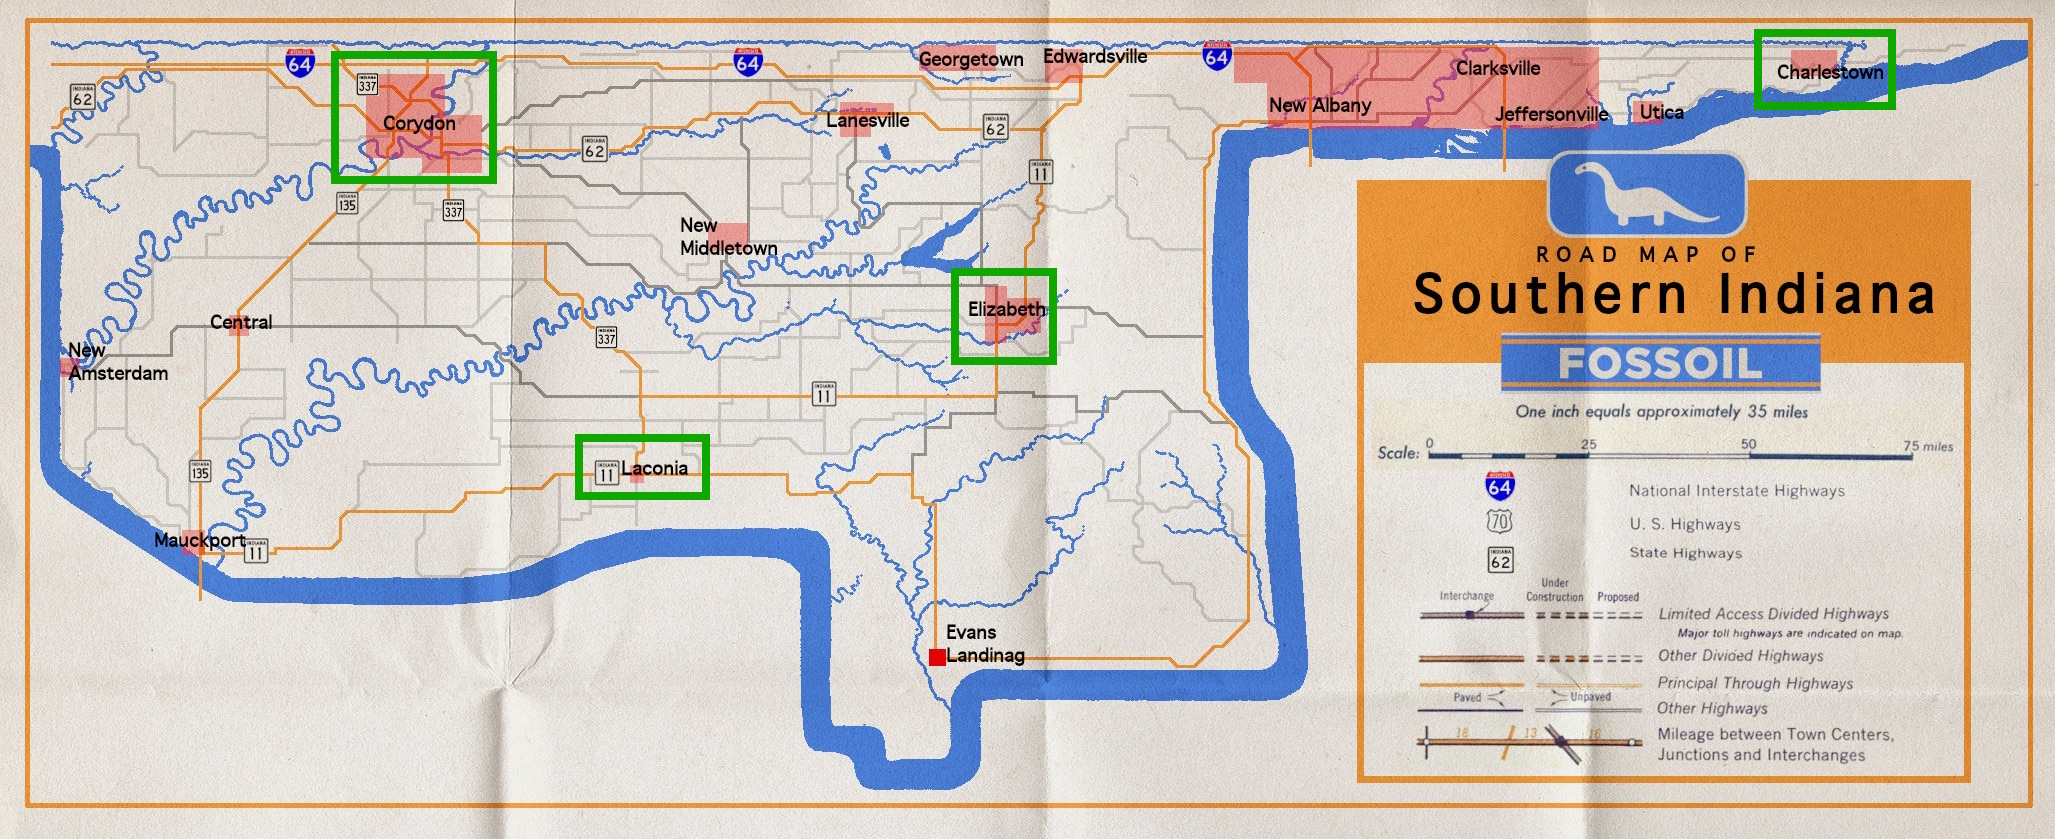
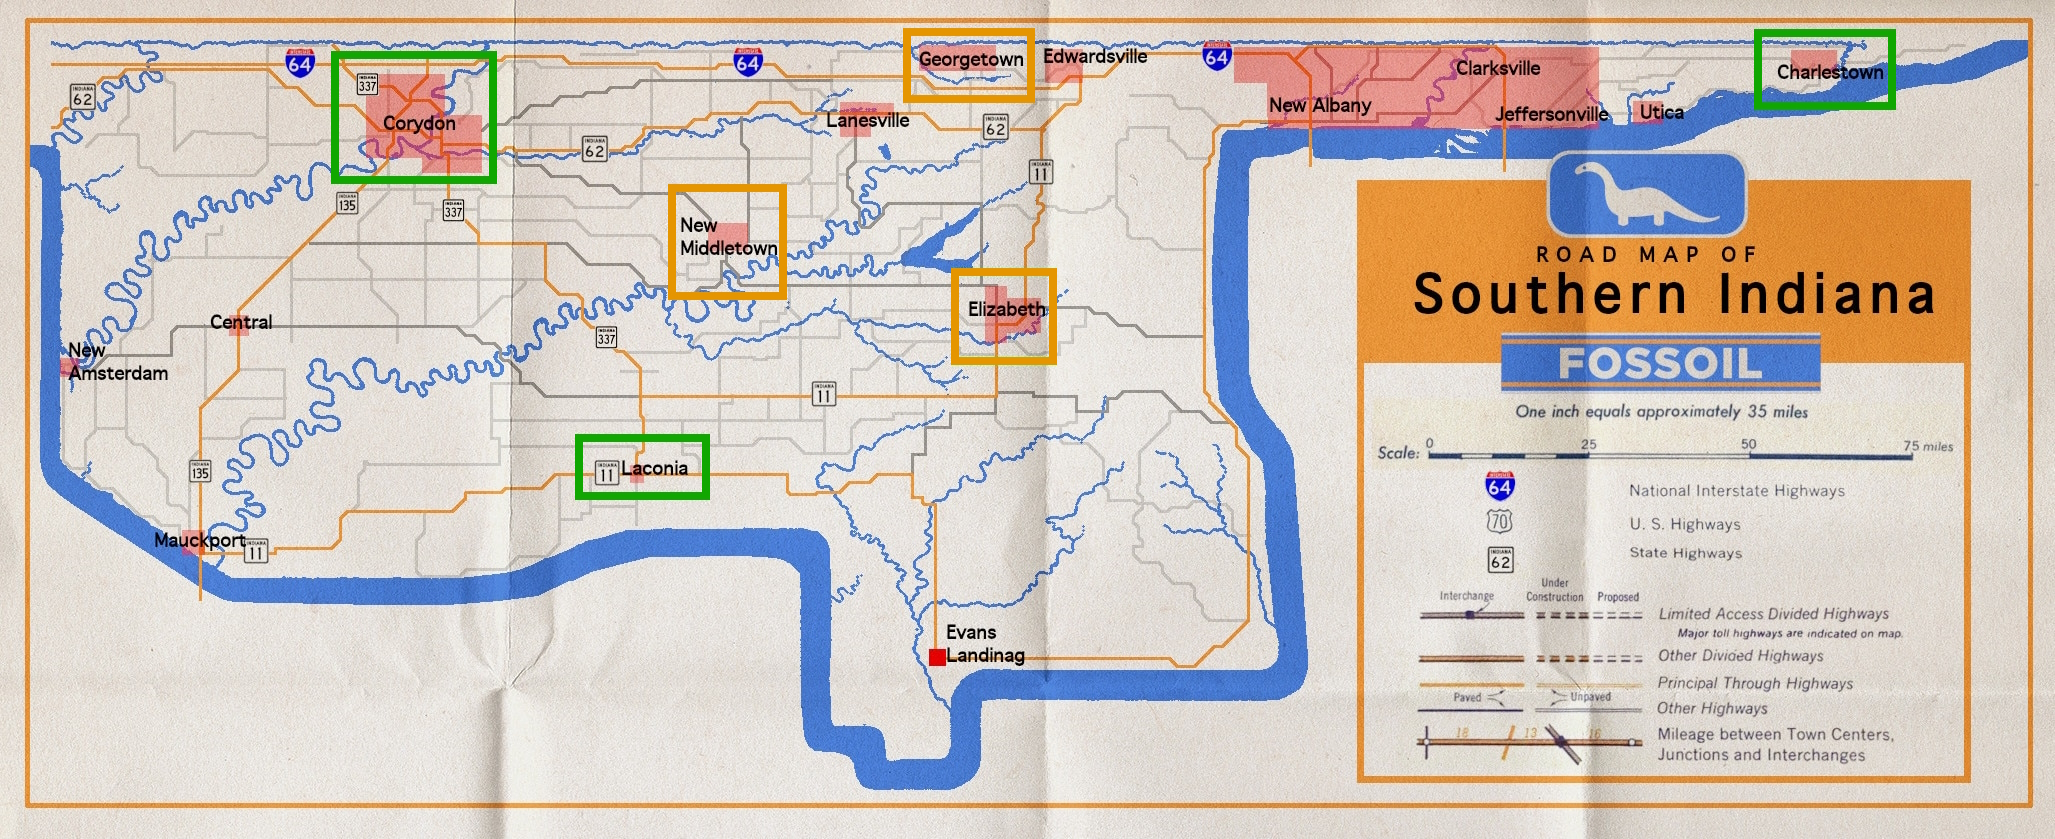
ref: remove elizabeth

Changed region(s): [[0.3114, 0.2169, 0.4049, 0.3719], [0.436, 0.3099, 0.5294, 0.4338], [0.436, 0.031, 0.5294, 0.124]]

diff --git a/descriptions.md b/descriptions.md
@@ -26,7 +26,5 @@
         - Charlestown's been through a few lives - pioneer outpost, wartime boomtown thanks to the old Army Ammunition Plant, and now the gateway to some of the best outdoor country around. Pitch a tent or hit the trails at Charlestown State Park, and see why folks keep coming back to the Ohio River's edge.
     - Corydon, IN:
         - Corydon wears its history on its sleeve - this is where Indiana's first constitution was hammered out under the Constitution Elm, back when the town briefly ran the whole territory. These days you can wander the old stone capitol, poke around downtown, and get a feel for small-town Indiana at its most storied.
-    - Elizabeth, IN:
-        - Elizabeth is quiet farm country perched above the Ohio River, the kind of place where everybody's buried in the same cemetery regardless of what they believed in life. Stop and stretch your legs, say hello to the locals, and enjoy a slower pace before moving on down the river road.
     - Laconia, IN:
         - Once the commercial heart of Boone Township, Laconia still looks out over the water where the old Tobacco Landing ferry used to run trade up and down the Ohio Valley. It's sleepy now, but wander the river-facing streets and you can practically hear the old boats coming in.
